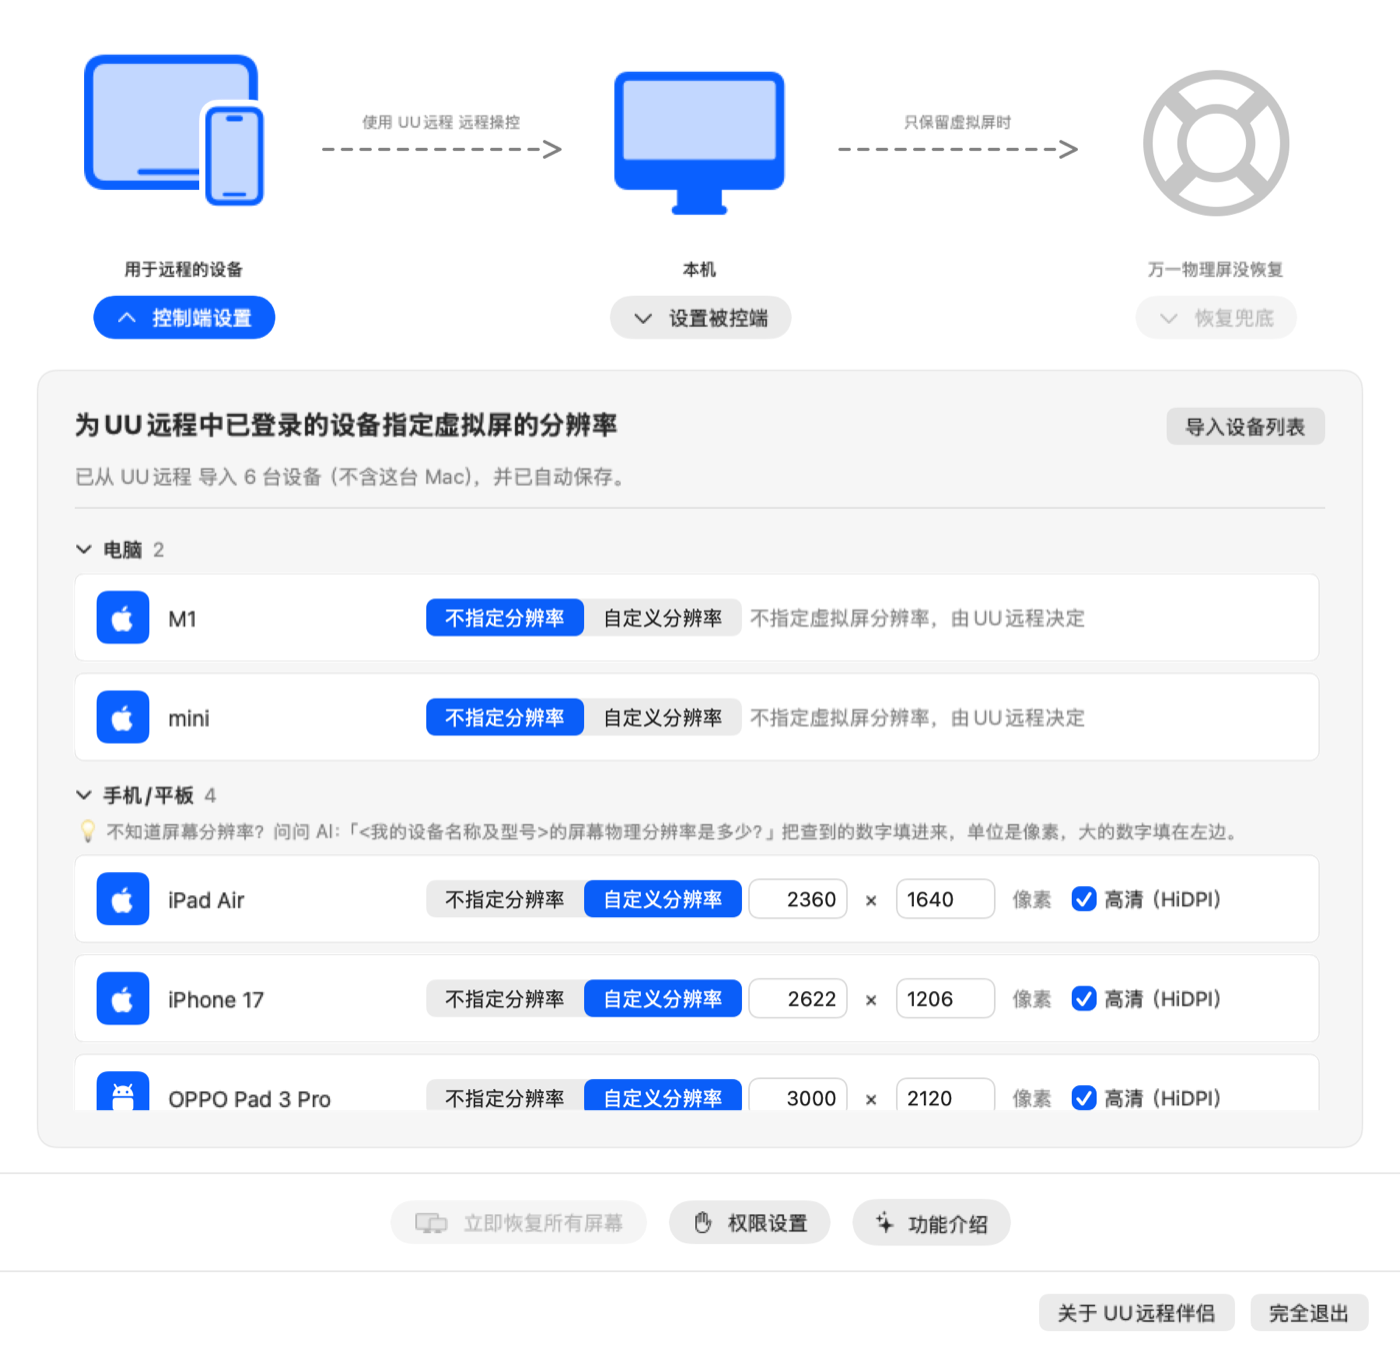
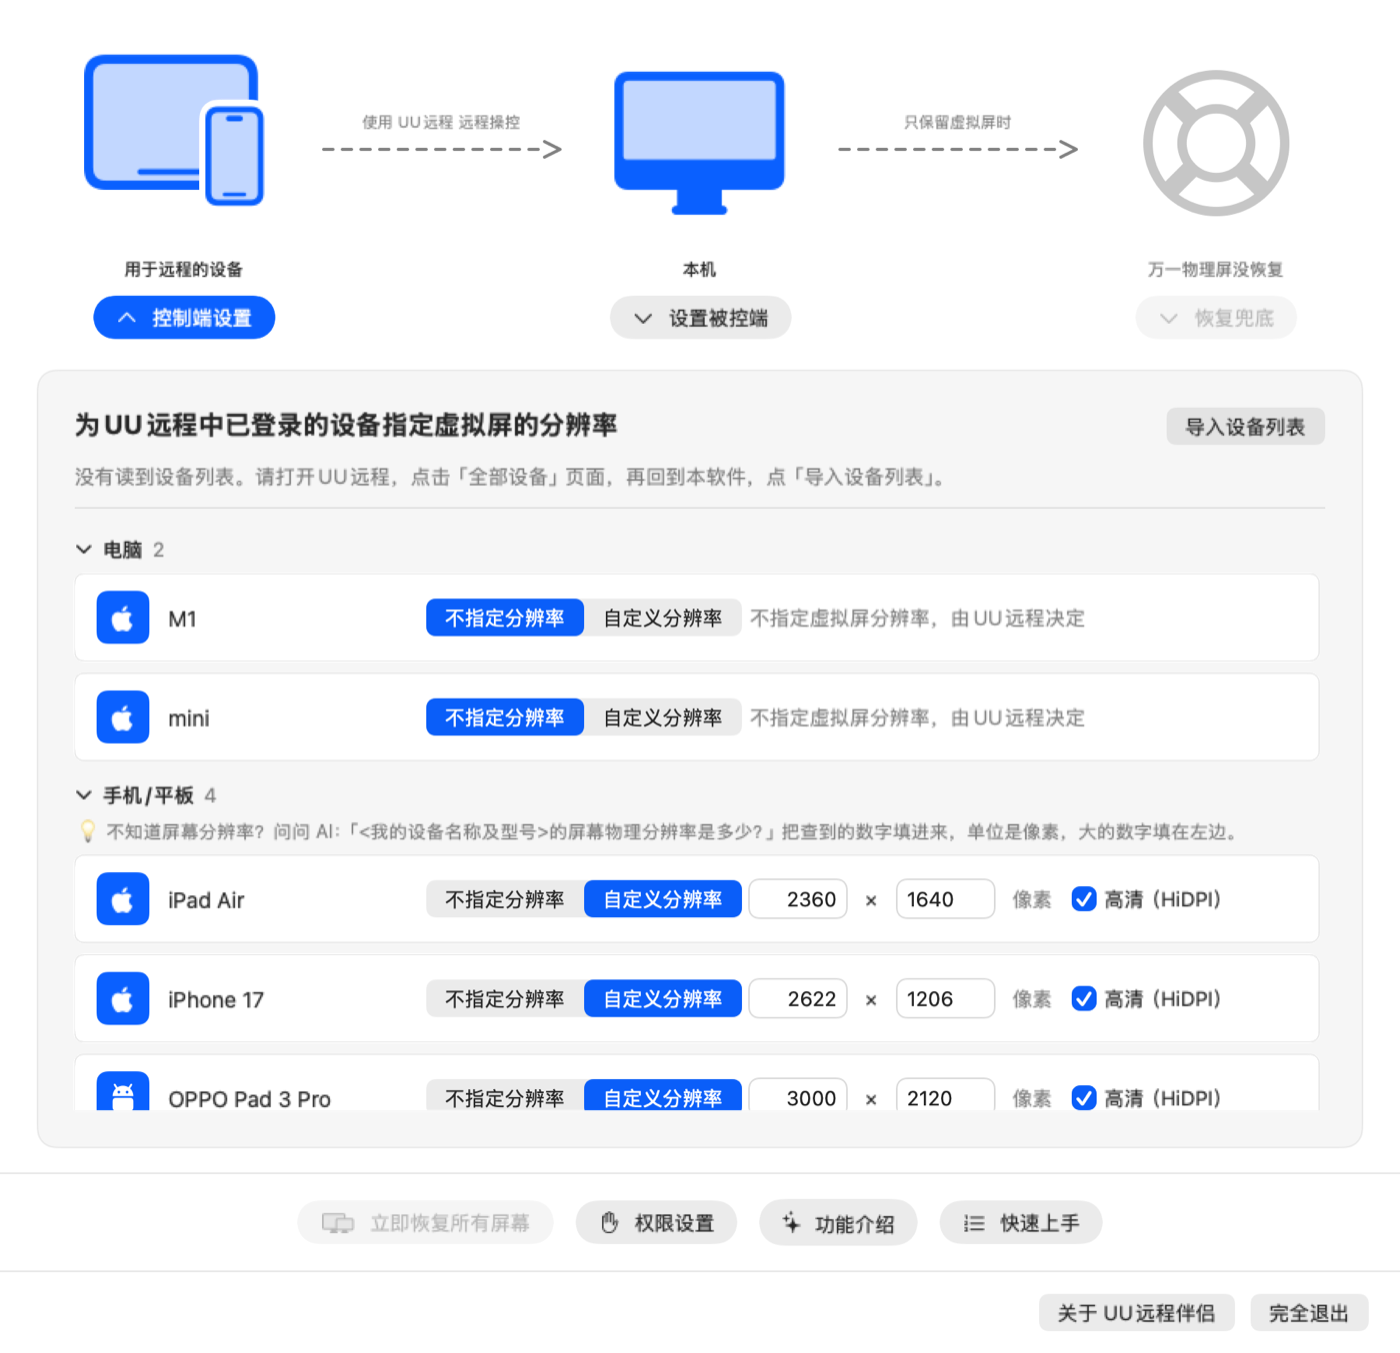
README：按 v1.1.2 的功能和文案更新
需求：仓库描述已更新，README 需与新描述和当前界面文案一致。
实现：更新开头标语与功能表；新增「快速上手」「菜单栏」说明；统一新叫法；补充 AboutKit 私有导致无法从源码完整构建的说明；重新生成设置窗口截图。

Changed region(s): [[0.0614, 0.3415, 0.6757, 0.3725], [0.215, 0.9002, 0.7679, 0.9313]]

diff --git a/README.md b/README.md
@@ -25,9 +25,9 @@
 
 UU远程 的 Mac 被控端没有 Windows 版那样的「超级屏」（虚拟屏幕）功能，所以有了这个小工具：
 
-- 平板或手机一连上，它就自动准备一块和你的设备**尺寸完全一致**的虚拟屏幕，远程画面刚好铺满
-- 可以选择在远程期间**只保留虚拟屏**（暂时关闭 Mac 自己的屏幕和外接显示器），窗口不会跑到你看不见的地方
-- 断开后，屏幕、窗口位置、显示器排列**全部自动还原**
+- 平板或手机一连上，它就自动准备一块和你的设备**分辨率完全一致**的虚拟屏幕，远程画面刚好铺满、文字清晰（HiDPI）
+- 可以选择在远程期间**只保留虚拟屏**（暂时关闭 Mac 自己的屏幕和外接显示器），Dock 栏和窗口不会跑到你看不见的地方
+- 远程结束后，屏幕、窗口位置、显示器排列**全部自动还原**
 
 <div align="center">
 <img src="docs/images/tour-welcome.png" width="45%" alt="功能介绍：欢迎">
@@ -38,12 +38,13 @@ UU远程 的 Mac 被控端没有 Windows 版那样的「超级屏」（虚拟屏
 
 | 功能 | 说明 |
 | --- | --- |
-| 🖥 自动准备虚拟屏幕 | 认出连进来的是哪台设备，几秒内换上合适尺寸的屏幕，高清显示 |
+| 🖥 自动准备虚拟屏 | 认出远程的是哪台设备，几秒内准备好同分辨率的高清（HiDPI）虚拟屏 |
 | 📱 每台设备单独设置 | 从 UU远程 导入已登录的设备，为平板和手机填写分辨率，改完自动保存 |
-| 💻 用电脑连接时不打扰 | 用另一台电脑连接时，什么也不做 |
+| 💻 不打扰其他连接 | 电脑、没填分辨率或不在列表里的设备连上时，什么也不做，交给 UU远程 处理 |
 | 🌑 远程时只保留虚拟屏 | 可选。远程期间关闭除虚拟屏之外的所有屏幕，远程结束后自动恢复 |
-| ⌨ 一键找回屏幕 | 坐在 Mac 前按 **⌃ control + ⌥ option + ⌘ command + 9**，所有屏幕立刻亮起来 |
+| ⌨ 快捷键人肉兜底 | 有人在 Mac 前时按 **⌃ control + ⌥ option + ⌘ command + 9**，所有屏幕立刻恢复 |
 | 🛡 守护助手 | 可选。万一程序意外退出或卡住，守护助手会自动把屏幕点亮 |
+| 🚀 快速上手 | 设置窗口里一键查看 5 步上手说明 |
 | 🔒 不联网 | 不连接任何服务器，不收集任何数据，作者对你的隐私没有任何兴趣 |
 
 ## 截图
@@ -51,6 +52,8 @@ UU远程 的 Mac 被控端没有 Windows 版那样的「超级屏」（虚拟屏
 <div align="center">
 <img src="docs/images/settings.png" width="80%" alt="设置窗口">
 <p><sub>设置窗口：上面的图示说明了工作方式，点按钮展开对应的设置</sub></p>
+<img src="docs/images/settings-mac.png" width="80%" alt="设置被控端">
+<p><sub>设置被控端：开机启动、自动准备虚拟屏、远程时关闭除虚拟屏之外的所有屏幕</sub></p>
 <img src="docs/images/settings-devices.png" width="80%" alt="为已登录UU远程的设备指定虚拟屏分辨率">
 <p><sub>设备页：和 UU远程「全部设备」一样的分组，为平板和手机填写分辨率</sub></p>
 <img src="docs/images/settings-recover.png" width="80%" alt="恢复兜底">
@@ -104,9 +107,19 @@ xattr -dr com.apple.quarantine "/Applications/UUyc companion.app"
 1. **功能介绍**：5 页图文，介绍它能做什么
 2. **授权**：允许它读取 UU远程 里显示的设备名称。点「授权」后会打开系统设置，旁边出现一个小窗口，把里面的 UU远程伴侣 拖进列表就好
    - 这一项在 macOS 27 里叫「**设备控制和数据访问**」，更早的版本叫「**辅助功能**」
-3. **为已登录UU远程的设备指定虚拟屏分辨率**：软件会自动从 UU远程「全部设备」导入已登录的设备，并自动保存。平板和手机的**分辨率需要你自己填写**，见下一节
+3. **控制端设置**：软件会自动从 UU远程「全部设备」导入已登录的设备，并自动保存。平板和手机的**分辨率需要你自己填写**，见下一节
 
 之后它会待在**菜单栏**里（图标是两块叠在一起的屏幕），平板或手机连上就会自动工作。
+
+### 快速上手
+
+设置窗口里点「**快速上手**」也能看到这几步：
+
+1. 将您所有打算用于远程的平板、手机、电脑，都下载并登录同一个 UU远程 帐号
+2. 本软件会自动读取已登录的设备列表
+3. 咨询 AI 您设备的物理分辨率，并将分辨率填入列表中
+4. 启用「自动准备虚拟屏」功能，远程时就会实现无黑边且高清（HiDPI）的画面
+5. 如果不想远程时切换屏幕，打开「远程时关闭除虚拟屏之外的所有屏幕」功能
 
 ### 填写每台设备的分辨率（重要）
 
@@ -119,7 +132,7 @@ xattr -dr com.apple.quarantine "/Applications/UUyc companion.app"
 
 查分辨率并填写：
 
-1. **查分辨率**：最省事的办法是问问 AI，例如「iPad Air 11 英寸（M4）的屏幕物理分辨率是多少？」；也可以看设备的官方规格页
+1. **查分辨率**：最省事的办法是问问 AI：「<我的设备名称及型号>的屏幕物理分辨率是多少？」；也可以看设备的官方规格页
 2. 点菜单栏图标 › **设置…** › **控制端设置**
 3. 在这台设备那一行填写两个数字，单位是**像素**：
    - 按**横屏**填写：**大的数字填前面，小的填后面**
@@ -133,6 +146,15 @@ xattr -dr com.apple.quarantine "/Applications/UUyc companion.app"
 >
 > 填的比例和设备屏幕对不上时，远程画面会出现黑边。按上面的步骤改正即可，不会造成其他影响。
 
+### 菜单栏
+
+点菜单栏图标，菜单里有：
+
+- **状态**：例如「等待其它设备连接中」「iPad Air 已连接 · 虚拟屏已匹配 2360×1640 高清」
+- **远程时只保留虚拟屏**：开关
+- **设置…**
+- **完全退出**：守护助手也会一起停下
+
 ### 设置
 
 点菜单栏图标 › **设置…**
@@ -140,6 +162,7 @@ xattr -dr com.apple.quarantine "/Applications/UUyc companion.app"
 - **控制端设置**：从 UU远程 导入已登录的设备，为平板和手机指定虚拟屏分辨率
 - **设置被控端**：开机启动、自动准备虚拟屏、远程时关闭除虚拟屏之外的所有屏幕
 - **恢复兜底**：打开「远程时关闭除虚拟屏之外的所有屏幕」后才能点，可以在这里打开守护助手
+- 下方按钮：立即恢复所有屏幕、权限设置、功能介绍、快速上手、关于 UU远程伴侣、完全退出
 
 ### 万一屏幕没有亮回来
 
@@ -153,9 +176,9 @@ xattr -dr com.apple.quarantine "/Applications/UUyc companion.app"
 
 ## 注意事项
 
-- **使用了 macOS 未公开的接口**：创建虚拟屏幕、熄灭屏幕都依赖 macOS 没有公开的系统接口。macOS 大版本升级后可能失效，建议升级系统后先简单测试一次
-- **熄灭屏幕是可选功能，请先了解找回方法**：开发过程中，在极端情况下（短时间内反复增减屏幕）曾遇到 macOS 显示服务重启，表现为被注销到登录界面。现在的版本已经加了多重保护并通过压力测试，但无法完全排除这种可能。**远程前请保存好重要工作**
-- **不是网易官方软件**：本软件与网易、UU远程没有任何关系。它通过读取 UU远程 窗口上的文字来识别设备，如果 UU远程 改版，可能会读不到设备名
+- **使用了 macOS 未公开的接口**：创建虚拟屏、关闭其他屏幕都依赖 macOS 没有公开的系统接口。macOS 大版本升级后可能失效，建议升级系统后先简单测试一次
+- **关闭其他屏幕是可选功能，请先了解恢复方法**：开发过程中，在极端情况下（短时间内反复增减屏幕）曾遇到 macOS 显示服务重启，表现为被注销到登录界面。现在的版本已经加了多重保护并通过压力测试，但无法完全排除这种可能。**远程前请保存好重要工作**
+- **不是网易官方软件**：本软件与 UU远程 及其开发商没有任何直接、间接或连带关系，仅为作者自己使用方便而开发。如果将来 UU远程 官方在 Mac 版中内置了同样的功能，删掉本软件即可。它通过读取 UU远程 窗口上的文字来识别设备，如果 UU远程 改版，可能会读不到设备名
 - **隐私**：不联网、不收集任何数据。授权后只用来读取 UU远程 窗口里显示的设备名称
 - **守护助手**：打开后会在「系统设置 › 通用 › 登录项与扩展」里出现，macOS 会提示「UUDisplayWatchdog 已添加后台项目」，这是正常的
 
@@ -221,6 +244,7 @@ cd UUyc-companion && SIGN_IDENTITY=- scripts/build-app.sh
 
 - `SIGN_IDENTITY=-` 表示用 ad-hoc 签名。缺点是每次重新构建后，系统授权都会失效，需要重新授权。如果你有自己的代码签名证书，把 `-` 换成证书名称，升级后授权就能保留
 - 只装了命令行工具（没有完整 Xcode）也能构建：内置的 PermissionFlow 和 TourKit 已经把需要 Xcode 宏插件的写法改掉了，详见各自目录下的 `VENDORED.md`
+- 「关于」窗口依赖作者的私有模块 AboutKit，目前只有作者本人能从源码完整构建；直接下载 Releases 里的安装包即可正常使用
 
 <details>
 <summary><b>工作原理</b></summary>
@@ -228,7 +252,7 @@ cd UUyc-companion && SIGN_IDENTITY=- scripts/build-app.sh
 - **检测连接**：UU远程 被操控时，会在每块屏幕上铺一层透明窗口，本软件据此判断有没有设备连上
 - **识别设备**：通过 macOS 辅助功能接口读取 UU远程 窗口里「本机被控中」显示的设备名称
 - **虚拟屏幕**：用 CoreGraphics 未公开的 `CGVirtualDisplay` 创建一块指定分辨率的高清屏幕，并设为主屏幕
-- **熄灭屏幕**：用未公开的 `CGSConfigureDisplayEnabled` 暂时停用其他显示器；停用前会把要恢复的屏幕记下来
+- **关闭其他屏幕**：用未公开的 `CGSConfigureDisplayEnabled` 暂时停用其他显示器；停用前会把要恢复的屏幕记下来
 - **守护助手**：一个独立的 LaunchAgent 进程，每 5 秒检查一次，发现主程序退出、卡住或 UU远程 已断开时，按记录恢复屏幕
 </details>
 
@@ -237,7 +261,6 @@ cd UUyc-companion && SIGN_IDENTITY=- scripts/build-app.sh
 - [FreeDisplay](https://github.com/huberdf/FreeDisplay)（MIT）：`CGVirtualDisplay` 接口声明
 - [PermissionFlow](https://github.com/jaywcjlove/PermissionFlow)（MIT）：授权引导与拖拽授权面板
 - [TourKit](https://github.com/rampatra/TourKit)（MIT）：功能介绍页
-- [AboutKit](https://github.com/aoyamashou/AboutKit)（MIT）：「关于」窗口与 Debug 编号
 - 虚拟屏幕的实现思路参考了 [DeskPad](https://github.com/Stengo/DeskPad)、[Side Screen](https://github.com/tranvuongquocdat/SideScreen) 和 Chromium 的相关代码
 
 ## 许可证
@@ -250,9 +273,9 @@ cd UUyc-companion && SIGN_IDENTITY=- scripts/build-app.sh
 
 **UUyc companion** is a macOS menu bar utility for people who control their Mac from an iPad or phone with [UU Remote](https://uuyc.163.com/) (NetEase).
 
-When a tablet or phone connects, it creates a HiDPI virtual display that exactly matches the device's resolution and makes it the main display, so the remote view fills the screen with no black bars. It can optionally turn off the Mac's own displays during the session, and everything is restored when the session ends.
+When a tablet or phone connects, it creates a HiDPI virtual display that exactly matches the device's resolution and makes it the main display, so the remote view fills the screen with no black bars. It can optionally turn off all other displays during the session, so the Dock and windows never end up on a screen you can't see. Everything is restored when the session ends.
 
-- Reads the device list from UU Remote and pre-fills a resolution for each device; computers are left alone
+- Imports the logged-in devices from UU Remote; you enter each tablet's or phone's native resolution. Computers and unknown devices are left alone
 - Emergency shortcut **⌃⌥⌘9** turns all displays back on; an optional background watchdog restores them if the app crashes or hangs
 - No network access, no data collection
 - Requires macOS 14+; tested on macOS 27 (Apple Silicon)
